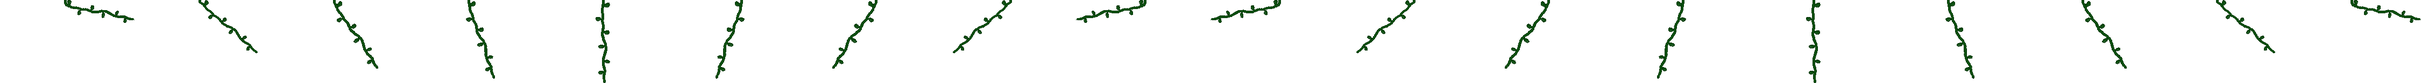
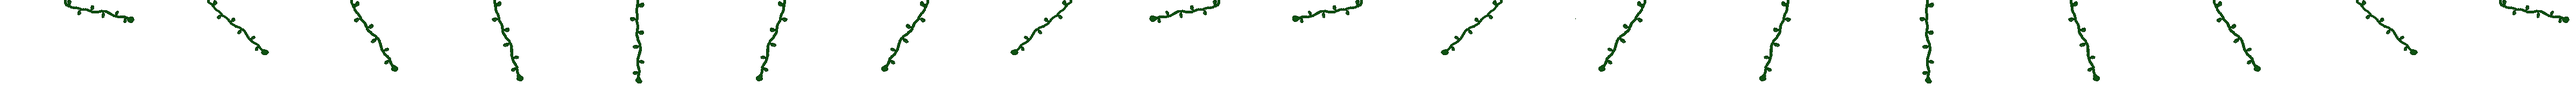
save

diff --git a/sceneJeu.js b/sceneJeu.js
@@ -74,7 +74,11 @@
             this.load.image("mur3", "assets/objets/mur3.png");
 
             this.load.spritesheet('lianes','assets/lianes.png',
-            { frameWidth: 250, frameHeight: 156 });
+            { frameWidth: 266, frameHeight: 172 });
+            this.load.spritesheet('lianesAnim','assets/lianesAnim.png',
+            { frameWidth: 266, frameHeight: 172 });
+            this.load.image("invisibleLiane", "assets/invisibleLiane.png");
+
 
         }
 
@@ -131,6 +135,10 @@
 
             this.accrochePossible1 = true
             this.compteurAccrochePossible1 = 50
+
+            this.animLianeSpecial = false
+
+            this.idxDebutAnimLianeStop = 0
 
             this.anims.create({
                 key: 'right',
@@ -247,6 +255,13 @@
                 repeat: -1
             });
 
+            this.anims.create({
+                key: 'animLianesPerso',
+                frames: this.anims.generateFrameNumbers('lianesAnim', {start:0,end:17}),
+                frameRate: 9,
+                repeat: -1
+            });
+
             ////////////////////////
 
             this.enemis = this.physics.add.group({
@@ -357,91 +372,94 @@
 
             this.follower1 = { t: 0, vec: new Phaser.Math.Vector2() };
             this.path1 = new Phaser.Curves.Path();
-            carte.getObjectLayer('lianes1').objects.forEach((lianes1) => {this.liane1X = lianes1.x,this.liane1Y = lianes1.y,this.lianesAnim = this.lianes.create(lianes1.x,lianes1.y + 32,'lianes').setDepth(7)});
-            this.path1.add(new Phaser.Curves.Ellipse(this.liane1X, this.liane1Y, 125));
+            carte.getObjectLayer('lianes1').objects.forEach((lianes1) => {this.liane1X = lianes1.x,this.liane1Y = lianes1.y,this.lianesAnim1 = this.lianes.create(lianes1.x,lianes1.y + 32,'lianes').setDepth(7)});
+            this.path1.add(new Phaser.Curves.Ellipse(this.liane1X, this.liane1Y, 115));
             this.tweens.add({targets: this.follower1,t: 1,ease: 'Sine.easeInOut',duration: 1000,yoyo: true,repeat: -1 });
-            this.accrocheJoueur1 = this.physics.add.image(0,0,"invisible")
+            this.accrocheJoueur1 = this.physics.add.image(0,0,"invisibleLiane")
             this.accrocheJoueur1.body.setAllowGravity(false)
             this.physics.add.overlap(this.player,this.accrocheJoueur1,this.accrocheJoueur1Fonction,null,this)
+            this.physics.add.overlap(this.player,this.lianesAnim1,this.testAnimLianes,null,this)
             ////////////////////////////////////////
             this.follower2 = { t: 0, vec: new Phaser.Math.Vector2() };
             this.path2 = new Phaser.Curves.Path();
-            carte.getObjectLayer('lianes2').objects.forEach((lianes2) => {this.lianes2X = lianes2.x,this.lianes2Y = lianes2.y});
-            this.path2.add(new Phaser.Curves.Ellipse(this.lianes2X, this.lianes2Y, 125));
+            carte.getObjectLayer('lianes2').objects.forEach((lianes2) => {this.lianes2X = lianes2.x,this.lianes2Y = lianes2.y,this.lianesAnim2 = this.lianes.create(lianes2.x,lianes2.y + 32,'lianes').setDepth(7)});
+            this.path2.add(new Phaser.Curves.Ellipse(this.lianes2X, this.lianes2Y, 115));
             this.tweens.add({targets: this.follower2,t: 1,ease: 'Sine.easeInOut',duration: 1000,yoyo: true,repeat: -1 });
-            this.accrocheJoueur2 = this.physics.add.image(0,0,"invisible")
+            this.accrocheJoueur2 = this.physics.add.image(0,0,"invisibleLiane")
             this.accrocheJoueur2.body.setAllowGravity(false)
             this.physics.add.overlap(this.player,this.accrocheJoueur2,this.accrocheJoueur1Fonction,null,this)
+            this.physics.add.overlap(this.player,this.lianesAnim2,this.testAnimLianes,null,this)
             ////////////////////////////////////////
             this.follower3 = { t: 0, vec: new Phaser.Math.Vector2() };
             this.path3 = new Phaser.Curves.Path();
-            carte.getObjectLayer('lianes3').objects.forEach((lianes3) => {this.lianes3X = lianes3.x,this.lianes3Y = lianes3.y});
-            this.path3.add(new Phaser.Curves.Ellipse(this.lianes3X, this.lianes3Y, 125));
+            carte.getObjectLayer('lianes3').objects.forEach((lianes3) => {this.lianes3X = lianes3.x,this.lianes3Y = lianes3.y,this.lianesAnim3 = this.lianes.create(lianes3.x,lianes3.y + 32,'lianes').setDepth(7)});
+            this.path3.add(new Phaser.Curves.Ellipse(this.lianes3X, this.lianes3Y, 115));
             this.tweens.add({targets: this.follower3,t: 1,ease: 'Sine.easeInOut',duration: 1000,yoyo: true,repeat: -1 });
-            this.accrocheJoueur3 = this.physics.add.image(0,0,"invisible")
+            this.accrocheJoueur3 = this.physics.add.image(0,0,"invisibleLiane")
             this.accrocheJoueur3.body.setAllowGravity(false)
             this.physics.add.overlap(this.player,this.accrocheJoueur3,this.accrocheJoueur1Fonction,null,this)
+            this.physics.add.overlap(this.player,this.lianesAnim3,this.testAnimLianes,null,this)
             ////////////////////////////////////////
             this.follower4 = { t: 0, vec: new Phaser.Math.Vector2() };
             this.path4 = new Phaser.Curves.Path();
-            carte.getObjectLayer('lianes4').objects.forEach((lianes4) => {this.lianes4X = lianes4.x,this.lianes4Y = lianes4.y});
-            this.path4.add(new Phaser.Curves.Ellipse(this.lianes4X, this.lianes4Y, 125));
+            carte.getObjectLayer('lianes4').objects.forEach((lianes4) => {this.lianes4X = lianes4.x,this.lianes4Y = lianes4.y,this.lianesAnim4 = this.lianes.create(lianes4.x,lianes4.y + 32,'lianes').setDepth(7)});
+            this.path4.add(new Phaser.Curves.Ellipse(this.lianes4X, this.lianes4Y, 115));
             this.tweens.add({targets: this.follower4,t: 1,ease: 'Sine.easeInOut',duration: 1000,yoyo: true,repeat: -1 });
-            this.accrocheJoueur4 = this.physics.add.image(0,0,"invisible")
+            this.accrocheJoueur4 = this.physics.add.image(0,0,"invisibleLiane")
             this.accrocheJoueur4.body.setAllowGravity(false)
             this.physics.add.overlap(this.player,this.accrocheJoueur4,this.accrocheJoueur1Fonction,null,this)
             ////////////////////////////////////////
             this.follower5 = { t: 0, vec: new Phaser.Math.Vector2() };
             this.path5 = new Phaser.Curves.Path();
-            carte.getObjectLayer('lianes5').objects.forEach((lianes5) => {this.lianes5X = lianes5.x,this.lianes5Y = lianes5.y});
-            this.path5.add(new Phaser.Curves.Ellipse(this.lianes5X, this.lianes5Y, 125));
+            carte.getObjectLayer('lianes5').objects.forEach((lianes5) => {this.lianes5X = lianes5.x,this.lianes5Y = lianes5.y,this.lianesAnim5 = this.lianes.create(lianes5.x,lianes5.y + 32,'lianes').setDepth(7)});
+            this.path5.add(new Phaser.Curves.Ellipse(this.lianes5X, this.lianes5Y, 115));
             this.tweens.add({targets: this.follower5,t: 1,ease: 'Sine.easeInOut',duration: 1000,yoyo: true,repeat: -1 });
-            this.accrocheJoueur5 = this.physics.add.image(0,0,"invisible")
+            this.accrocheJoueur5 = this.physics.add.image(0,0,"invisibleLiane")
             this.accrocheJoueur5.body.setAllowGravity(false)
             this.physics.add.overlap(this.player,this.accrocheJoueur5,this.accrocheJoueur1Fonction,null,this)
             ////////////////////////////////////////
             this.follower6 = { t: 0, vec: new Phaser.Math.Vector2() };
             this.path6 = new Phaser.Curves.Path();
-            carte.getObjectLayer('lianes6').objects.forEach((lianes6) => {this.lianes6X = lianes6.x,this.lianes6Y = lianes6.y});
-            this.path6.add(new Phaser.Curves.Ellipse(this.lianes6X, this.lianes6Y, 125));
+            carte.getObjectLayer('lianes6').objects.forEach((lianes6) => {this.lianes6X = lianes6.x,this.lianes6Y = lianes6.y,this.lianesAnim6 = this.lianes.create(lianes6.x,lianes6.y + 32,'lianes').setDepth(7)});
+            this.path6.add(new Phaser.Curves.Ellipse(this.lianes6X, this.lianes6Y, 115));
             this.tweens.add({targets: this.follower6,t: 1,ease: 'Sine.easeInOut',duration: 1000,yoyo: true,repeat: -1 });
-            this.accrocheJoueur6 = this.physics.add.image(0,0,"invisible")
+            this.accrocheJoueur6 = this.physics.add.image(0,0,"invisibleLiane")
             this.accrocheJoueur6.body.setAllowGravity(false)
             this.physics.add.overlap(this.player,this.accrocheJoueur6,this.accrocheJoueur1Fonction,null,this)
             ////////////////////////////////////////
             this.follower7 = { t: 0, vec: new Phaser.Math.Vector2() };
             this.path7 = new Phaser.Curves.Path();
-            carte.getObjectLayer('lianes7').objects.forEach((lianes7) => {this.lianes7X = lianes7.x,this.lianes7Y = lianes7.y});
-            this.path7.add(new Phaser.Curves.Ellipse(this.lianes7X, this.lianes7Y, 125));
+            carte.getObjectLayer('lianes7').objects.forEach((lianes7) => {this.lianes7X = lianes7.x,this.lianes7Y = lianes7.y,this.lianesAnim7 = this.lianes.create(lianes7.x,lianes7.y + 32,'lianes').setDepth(7)});
+            this.path7.add(new Phaser.Curves.Ellipse(this.lianes7X, this.lianes7Y, 115));
             this.tweens.add({targets: this.follower7,t: 1,ease: 'Sine.easeInOut',duration: 1000,yoyo: true,repeat: -1 });
-            this.accrocheJoueur7 = this.physics.add.image(0,0,"invisible")
+            this.accrocheJoueur7 = this.physics.add.image(0,0,"invisibleLiane")
             this.accrocheJoueur7.body.setAllowGravity(false)
             this.physics.add.overlap(this.player,this.accrocheJoueur7,this.accrocheJoueur1Fonction,null,this)
             ////////////////////////////////////////
             this.follower8 = { t: 0, vec: new Phaser.Math.Vector2() };
             this.path8 = new Phaser.Curves.Path();
-            carte.getObjectLayer('lianes8').objects.forEach((lianes8) => {this.lianes8X = lianes8.x,this.lianes8Y = lianes8.y});
-            this.path8.add(new Phaser.Curves.Ellipse(this.lianes8X, this.lianes8Y, 125));
+            carte.getObjectLayer('lianes8').objects.forEach((lianes8) => {this.lianes8X = lianes8.x,this.lianes8Y = lianes8.y,this.lianesAnim8 = this.lianes.create(lianes8.x,lianes8.y + 32,'lianes').setDepth(7)});
+            this.path8.add(new Phaser.Curves.Ellipse(this.lianes8X, this.lianes8Y, 115));
             this.tweens.add({targets: this.follower8,t: 1,ease: 'Sine.easeInOut',duration: 1000,yoyo: true,repeat: -1 });
-            this.accrocheJoueur8 = this.physics.add.image(0,0,"invisible")
+            this.accrocheJoueur8 = this.physics.add.image(0,0,"invisibleLiane")
             this.accrocheJoueur8.body.setAllowGravity(false)
             this.physics.add.overlap(this.player,this.accrocheJoueur8,this.accrocheJoueur1Fonction,null,this)
             ////////////////////////////////////////
             this.follower9 = { t: 0, vec: new Phaser.Math.Vector2() };
             this.path9 = new Phaser.Curves.Path();
-            carte.getObjectLayer('lianes9').objects.forEach((lianes9) => {this.lianes9X = lianes9.x,this.lianes9Y = lianes9.y});
-            this.path9.add(new Phaser.Curves.Ellipse(this.lianes9X, this.lianes9Y, 125));
+            carte.getObjectLayer('lianes9').objects.forEach((lianes9) => {this.lianes9X = lianes9.x,this.lianes9Y = lianes9.y,this.lianesAnim9 = this.lianes.create(lianes9.x,lianes9.y + 32,'lianes').setDepth(7)});
+            this.path9.add(new Phaser.Curves.Ellipse(this.lianes9X, this.lianes9Y, 115));
             this.tweens.add({targets: this.follower9,t: 1,ease: 'Sine.easeInOut',duration: 1000,yoyo: true,repeat: -1 });
-            this.accrocheJoueur9 = this.physics.add.image(0,0,"invisible")
+            this.accrocheJoueur9 = this.physics.add.image(0,0,"invisibleLiane")
             this.accrocheJoueur9.body.setAllowGravity(false)
             this.physics.add.overlap(this.player,this.accrocheJoueur9,this.accrocheJoueur1Fonction,null,this)
             ////////////////////////////////////////
             this.follower10 = { t: 0, vec: new Phaser.Math.Vector2() };
             this.path10 = new Phaser.Curves.Path();
-            carte.getObjectLayer('lianes10').objects.forEach((lianes10) => {this.lianes10X = lianes10.x,this.lianes10Y = lianes10.y});
-            this.path10.add(new Phaser.Curves.Ellipse(this.lianes10X, this.lianes10Y, 125));
+            carte.getObjectLayer('lianes10').objects.forEach((lianes10) => {this.lianes10X = lianes10.x,this.lianes10Y = lianes10.y,this.lianesAnim10 = this.lianes.create(lianes10.x,lianes10.y + 32,'lianes').setDepth(7)});
+            this.path10.add(new Phaser.Curves.Ellipse(this.lianes10X, this.lianes10Y, 115));
             this.tweens.add({targets: this.follower10,t: 1,ease: 'Sine.easeInOut',duration: 1000,yoyo: true,repeat: -1 });
-            this.accrocheJoueur10 = this.physics.add.image(0,0,"invisible")
+            this.accrocheJoueur10 = this.physics.add.image(0,0,"invisibleLiane")
             this.accrocheJoueur10.body.setAllowGravity(false)
             this.physics.add.overlap(this.player,this.accrocheJoueur10,this.accrocheJoueur1Fonction,null,this)
             ////////////////////////////////////////
@@ -489,10 +507,6 @@
             this.accrocheJoueur10.y = this.follower10.vec.y
             this.path10.getPoint(this.follower10.t/2, this.follower10.vec);
             ///
-        
-            this.lianes.children.iterate((child) => {
-                child.anims.play('animLianes', true);
-            });
 
             //////////////////////////////////////////////////////////
             //////////////////////////////////////////////////////////
@@ -870,13 +884,23 @@
                 this.resetGraviteLeft = false
                 this.resetGraviteRight = false
                 this.player.x = this.accrocheTest.x - 14
-                this.player.y = this.accrocheTest.y - 14
+                this.player.y = this.accrocheTest.y - 20
                 this.player.body.setAllowGravity(false)
+                this.player.alpha = 0
+
+                this.cameras.main.startFollow(this.lianeTemporaire); 
+                
                 if (this.moveUp){
                     this.player.setVelocityY(-this.speedSaut)
                     this.accrochePossible1 = false
                     this.accroche1 = false
                     this.player.body.setAllowGravity(true)
+                    this.player.alpha = 1
+                    this.idxDebutAnimLianeStop = this.lianeTemporaire.anims.currentFrame.index
+
+                    this.cameras.main.startFollow(this.player); 
+
+                    this.animLianeSpecial = false
                 }
             }
             if (this.accrochePossible1 == false){
@@ -885,14 +909,35 @@
                     this.compteurAccrochePossible1 = 50
                     this.accrochePossible1 = true
                 }
-            }               
-        }
+            }      
+            
+            if (this.animLianeSpecial == false){
+                this.lianes.children.iterate((child) => {
+                    child.anims.play({ key: 'animLianes', startFrame: this.idxDebutAnimLianeStop }, true);
+                });
+            }
+            if (this.animLianeSpecial == true && this.accroche1 == true){
+                this.lianes.children.iterate((child) => {
+                    this.idxDebutAnimLiane = child.anims.currentFrame.index
+                });
+                this.lianeTemporaire.anims.play({ key: 'animLianesPerso', startFrame: this.idxDebutAnimLiane }, true);
+
+            }
+
+            console.log(this.idxDebutAnimLianeStop)
+
+    } 
 
         accrocheJoueur1Fonction(player,accroche){
             if (this.accrochePossible1 == true){ 
                 this.accroche1 = true
                 this.accrocheTest = accroche
             }
+        }
+
+        testAnimLianes(player,lianeTempo){
+            this.animLianeSpecial = true
+            this.lianeTemporaire = lianeTempo
         }
 
         takeWeapon(play,arme){

diff --git a/sceneTemple.js b/sceneTemple.js
@@ -101,7 +101,7 @@ create(){
 
     this.player.setCollideWorldBounds(true);
 
-    this.cameras.main.zoom = 3
+    this.cameras.main.zoom = 2.5
     this.cameras.main.startFollow(this.player); 
     this.physics.world.setBounds(0, 0, 6400, 2880);
     this.cameras.main.setBounds(0, 0, 6400, 2880);

diff --git a/main.js b/main.js
@@ -5,7 +5,7 @@ var config = {
     default: 'arcade',
     arcade: {
     gravity: { y: 1000 },
-    debug: true
+    debug: false
     }},
     pixelArt:true,
     scene: [accueil,sceneJeu,sceneTemple],
